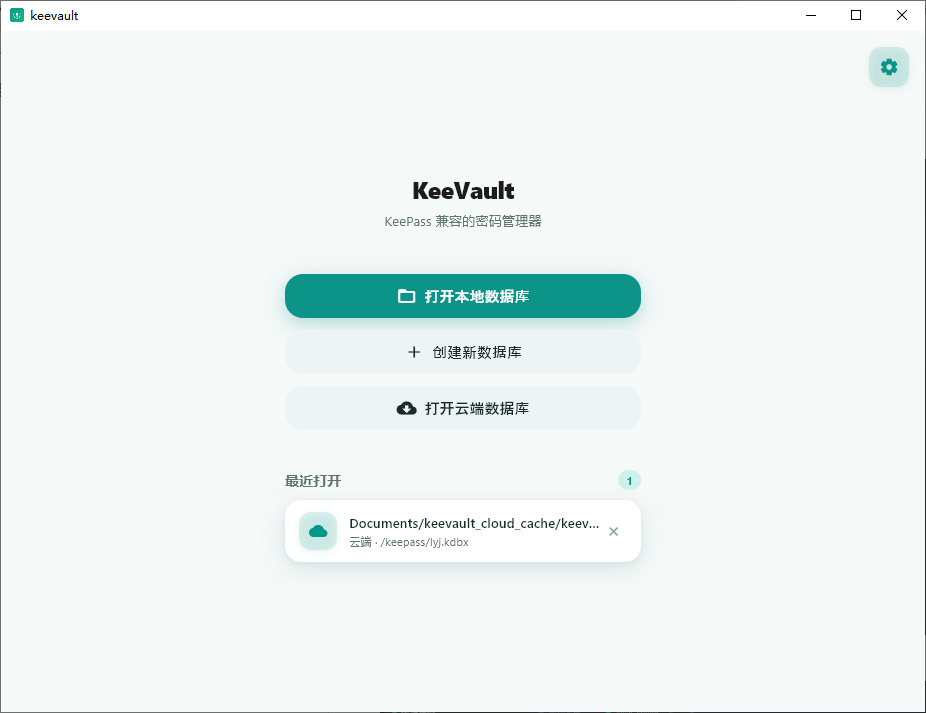
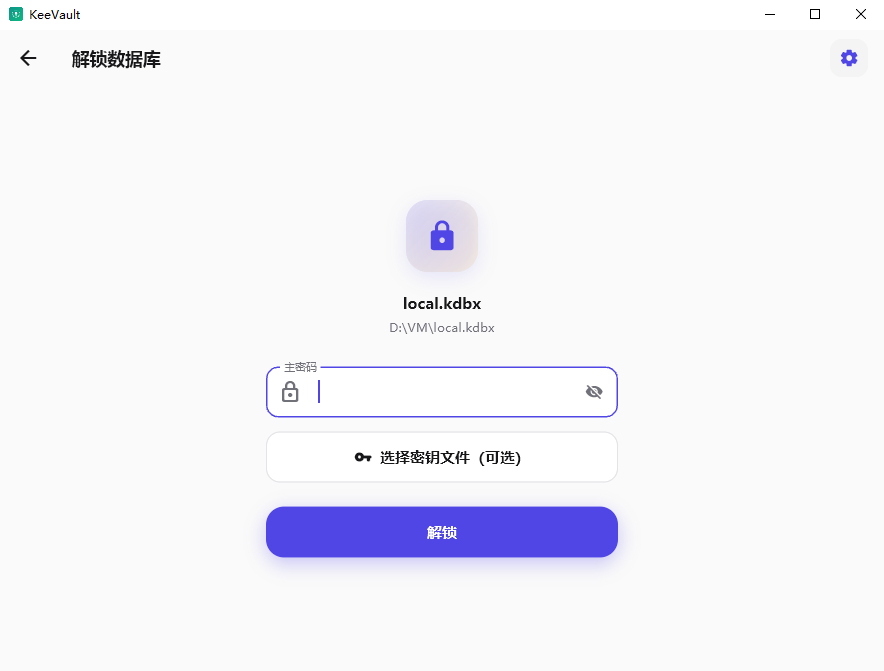
docs(readme): 更新桌面端截图为新版 UI 并修正 SDK 版本要求
- 更换中英文 README 桌面截图为 indigo 新主题的解锁页（screenshot / screenshot_en）
- 移除已删除的移动端截图引用（phone1、phone2-TOTP）
- 构建要求 Dart SDK >= 3.12.0 修正为 >= 3.13.0，与 pubspec.yaml 保持一致
- 安装表格按 markdown lint 规范对齐

diff --git a/README_EN.md b/README_EN.md
@@ -7,10 +7,6 @@ A cross-platform KeePass-compatible password manager built with Flutter.
 <p align="center">
   <img src="assets/images/screenshot_en.png" width="600" alt="Desktop">
 </p>
-<p align="center">
-  <img src="assets/images/phone1.png" width="240" alt="Mobile - Entries">
-  <img src="assets/images/phone2-TOTP-en.png" width="240" alt="Mobile - TOTP">
-</p>
 
 ## Features
 
@@ -24,16 +20,16 @@ A cross-platform KeePass-compatible password manager built with Flutter.
 
 Download from [Releases](https://github.com/lyj404/keevault/releases).
 
-| Platform | Notes |
-|----------|-------|
-| Windows | Download `KeeVault-*-windows-x64.zip`, extract and run `keevault.exe` |
-| Debian / Ubuntu | `sudo apt install ./keevault_*_amd64.deb` |
-| Arch Linux | `yay -S keevault-bin` or `paru -S keevault-bin` |
-| Android | Install the APK for your arch (`arm64-v8a` / `armeabi-v7a` / `x86_64`) |
+| Platform        | Notes                                                                  |
+| --------------- | ---------------------------------------------------------------------- |
+| Windows         | Download `KeeVault-*-windows-x64.zip`, extract and run `keevault.exe`  |
+| Debian / Ubuntu | `sudo apt install ./keevault_*_amd64.deb`                              |
+| Arch Linux      | `yay -S keevault-bin` or `paru -S keevault-bin`                        |
+| Android         | Install the APK for your arch (`arm64-v8a` / `armeabi-v7a` / `x86_64`) |
 
 ## Build from Source
 
-Requires Flutter / Dart SDK >= 3.12.0
+Requires Flutter / Dart SDK >= 3.13.0
 
 ```bash
 git clone https://github.com/lyj404/keevault

diff --git a/README.md b/README.md
@@ -7,10 +7,6 @@
 <p align="center">
   <img src="assets/images/screenshot.png" width="600" alt="桌面端">
 </p>
-<p align="center">
-  <img src="assets/images/phone1.png" width="240" alt="移动端-条目列表">
-  <img src="assets/images/phone2-TOTP.png" width="240" alt="移动端-TOTP">
-</p>
 
 ## 功能
 
@@ -24,16 +20,16 @@
 
 从 [Releases](https://github.com/lyj404/keevault/releases) 下载对应平台安装包。
 
-| 平台 | 说明 |
-|------|------|
-| Windows | 下载 `KeeVault-*-windows-x64.zip`，解压运行 `keevault.exe` |
-| Debian / Ubuntu | `sudo apt install ./keevault_*_amd64.deb` |
-| Arch Linux | `yay -S keevault-bin` 或 `paru -S keevault-bin` |
-| Android | 下载对应架构 APK（`arm64-v8a` / `armeabi-v7a` / `x86_64`）安装 |
+| 平台            | 说明                                                           |
+| --------------- | -------------------------------------------------------------- |
+| Windows         | 下载 `KeeVault-*-windows-x64.zip`，解压运行 `keevault.exe`     |
+| Debian / Ubuntu | `sudo apt install ./keevault_*_amd64.deb`                      |
+| Arch Linux      | `yay -S keevault-bin` 或 `paru -S keevault-bin`                |
+| Android         | 下载对应架构 APK（`arm64-v8a` / `armeabi-v7a` / `x86_64`）安装 |
 
 ## 从源码构建
 
-需要 Flutter / Dart SDK >= 3.12.0
+需要 Flutter / Dart SDK >= 3.13.0
 
 ```bash
 git clone https://github.com/lyj404/keevault
